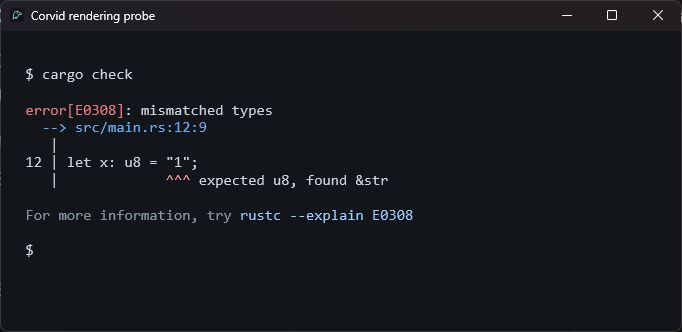
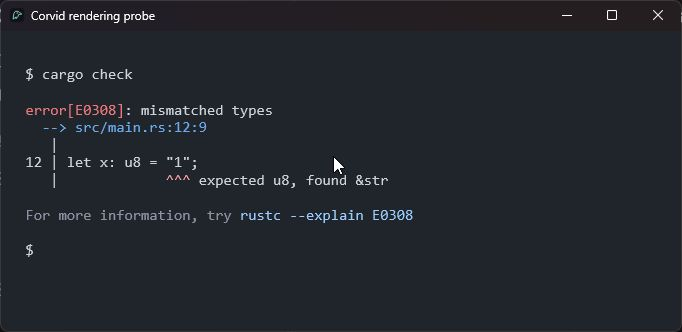
fix: brighten the dark terminal background

diff --git a/crates/corvid-desktop/src/terminal_paint.rs b/crates/corvid-desktop/src/terminal_paint.rs
@@ -12,7 +12,7 @@ use crate::terminal_session::Grid;
 
 mod graphic;
 
-pub const BACKGROUND: u32 = 0x12151a;
+pub const BACKGROUND: u32 = 0x20242b;
 const FOREGROUND: u32 = 0xcdd3dc;
 const DIM_FOREGROUND: u32 = 0x8993a2;
 
